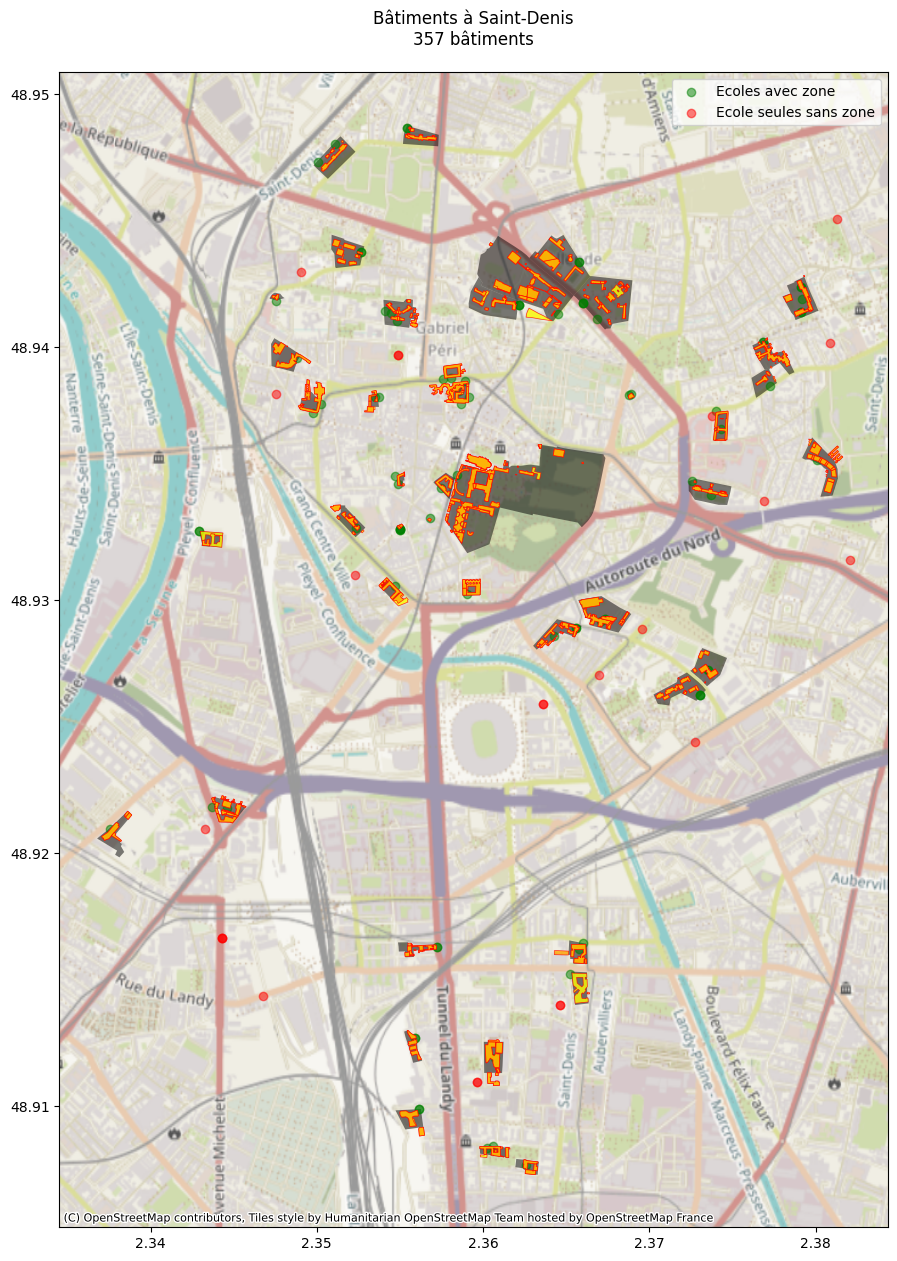
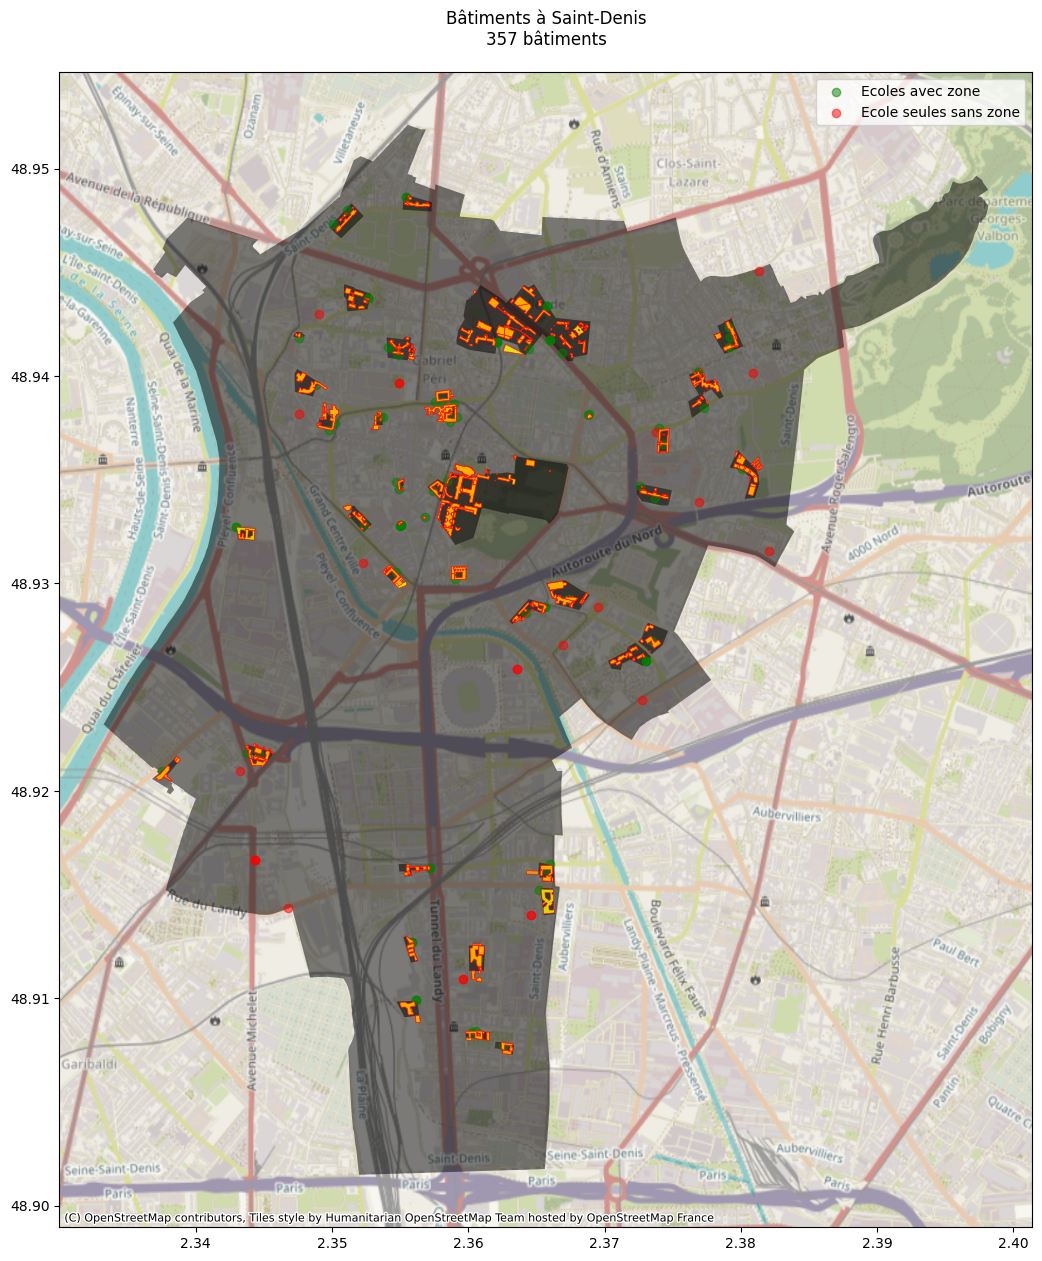
Cleanup notebooks

diff --git a/algorithme/notebooks/exports/verif_haut_niveau.md b/algorithme/notebooks/exports/verif_haut_niveau.md
@@ -23,8 +23,8 @@ src = DATA_FOLDER / "saint_denis_reference_data.gpkg"
 layers = fiona.listlayers(src)
 
 for layer in layers:
-    gdf = gpd.read_file(src, layer=layer)
-    print(f"* Couche: {layer} avec {len(gdf)} éléments.")
+    gdf_sd = gpd.read_file(src, layer=layer)
+    print(f"* Couche: {layer} avec {len(gdf_sd)} éléments.")
 ```
 
     * Couche: annuaire_education avec 88 éléments.
@@ -45,12 +45,14 @@ ecoles = gpd.read_file(src, layer="annuaire_education")
 ecoles_seules = gpd.read_file(src, layer="annuaire_education_sans_zone") 
 potentiel = gpd.read_file(src, layer="potentielsolaire_toitures")
 batiments_ecoles = gpd.read_file(src, layer="bdtopo_batiment")
+stdenis = gpd.read_file(src, layer="perimetre_st_denis")
 ```
 
 
 ```python
 fig1, ax1 = plt.subplots(figsize=(15, 15))
 zones.plot(ax=ax1, color='black', alpha=0.5, label='Zones')
+stdenis.plot(ax=ax1, color='black', alpha=0.5, label='Zones')
 ecoles.plot(ax=ax1, color='green', alpha=0.5, label='Ecoles avec zone')
 ecoles_seules.plot(ax=ax1, color='red', alpha=0.5, label='Ecole seules sans zone')
 batiments_ecoles.plot(ax=ax1, facecolor='yellow', edgecolor='red', linewidth=0.5, alpha=0.8, label='Saint-Denis')
@@ -61,7 +63,7 @@ ax1.legend()
 plt.show()
 ```
 
-    /tmp/ipykernel_287957/4027241553.py:9: UserWarning: Legend does not support handles for PatchCollection instances.
+    /tmp/ipykernel_301604/64737190.py:10: UserWarning: Legend does not support handles for PatchCollection instances.
     See: https://matplotlib.org/stable/tutorials/intermediate/legend_guide.html#implementing-a-custom-legend-handler
       ax1.legend()
 
@@ -445,7 +447,7 @@ batiments_calcules.groupby('forme')
 
 
 
-    <pandas.core.groupby.generic.DataFrameGroupBy object at 0x7726ef6b2ce0>
+    <pandas.core.groupby.generic.DataFrameGroupBy object at 0x7fe1158660b0>
 
 
 
@@ -495,5 +497,173 @@ plt.show()
 
     
 ![png](verif_haut_niveau_files/verif_haut_niveau_16_0.png)
+    
+
+
+# Ajout de la layer potentiel solaire 
+
+PV_Sol_Polygon.gpkg
+* Couche: PV_Sol avec 2016422 éléments.
+* Couche: layer_styles avec 1 éléments.
+
+
+```python
+mask_stdenis = stdenis.to_crs(2154)
+```
+
+
+```python
+src = DATA_FOLDER / "ENR_1-0_POT-SOL-SOL_GPKG_LAMB93_FXX_2024-04-01/1_DONNEES_LIVRAISON/PV_Sol_Polygon.gpkg"
+layers = fiona.listlayers(src)
+
+```
+
+
+```python
+enrpot = gpd.read_file(src, layer="PV_Sol", mask = mask_stdenis)
+enrpot
+```
+
+    /home/kelu/projets/13_potentiel_solaire/algorithme/.venv/lib/python3.10/site-packages/pyogrio/core.py:279: RuntimeWarning: Field format 'character varying(256)' not supported
+      return ogr_read_info(
+    /home/kelu/projets/13_potentiel_solaire/algorithme/.venv/lib/python3.10/site-packages/pyogrio/core.py:279: RuntimeWarning: Field format 'character varying(30)' not supported
+      return ogr_read_info(
+    /home/kelu/projets/13_potentiel_solaire/algorithme/.venv/lib/python3.10/site-packages/pyogrio/core.py:279: RuntimeWarning: Field format 'character varying' not supported
+      return ogr_read_info(
+    /home/kelu/projets/13_potentiel_solaire/algorithme/.venv/lib/python3.10/site-packages/pyogrio/core.py:279: RuntimeWarning: Field format 'timestamp with time zone' not supported
+      return ogr_read_info(
+    /home/kelu/projets/13_potentiel_solaire/algorithme/.venv/lib/python3.10/site-packages/geopandas/io/file.py:497: UserWarning: More than one layer found in 'PV_Sol_Polygon.gpkg': 'PV_Sol' (default), 'layer_styles'. Specify layer parameter to avoid this warning.
+      crs = pyogrio.read_info(path_or_bytes).get("crs")
+
+
+
+
+
+<div>
+<style scoped>
+    .dataframe tbody tr th:only-of-type {
+        vertical-align: middle;
+    }
+
+    .dataframe tbody tr th {
+        vertical-align: top;
+    }
+
+    .dataframe thead th {
+        text-align: right;
+    }
+</style>
+<table border="1" class="dataframe">
+  <thead>
+    <tr style="text-align: right;">
+      <th></th>
+      <th>objectid</th>
+      <th>classe</th>
+      <th>region</th>
+      <th>geometry</th>
+    </tr>
+  </thead>
+  <tbody>
+    <tr>
+      <th>0</th>
+      <td>1356053</td>
+      <td>Réseaux routiers et ferroviaires</td>
+      <td>Île-de-France</td>
+      <td>MULTIPOLYGON (((656436.5 6894531, 656438.799 6...</td>
+    </tr>
+    <tr>
+      <th>1</th>
+      <td>871998</td>
+      <td>Inadapté sauf exception</td>
+      <td>Île-de-France</td>
+      <td>MULTIPOLYGON (((654025.136 6867560.505, 654013...</td>
+    </tr>
+    <tr>
+      <th>2</th>
+      <td>872121</td>
+      <td>Inadapté sauf exception</td>
+      <td>Île-de-France</td>
+      <td>MULTIPOLYGON (((652984.728 6867576.176, 652985...</td>
+    </tr>
+    <tr>
+      <th>3</th>
+      <td>871992</td>
+      <td>Inadapté sauf exception</td>
+      <td>Île-de-France</td>
+      <td>MULTIPOLYGON (((653831.991 6867843.593, 653815...</td>
+    </tr>
+    <tr>
+      <th>4</th>
+      <td>872122</td>
+      <td>Inadapté sauf exception</td>
+      <td>Île-de-France</td>
+      <td>MULTIPOLYGON (((653407.343 6867644.803, 653399...</td>
+    </tr>
+    <tr>
+      <th>...</th>
+      <td>...</td>
+      <td>...</td>
+      <td>...</td>
+      <td>...</td>
+    </tr>
+    <tr>
+      <th>206</th>
+      <td>872075</td>
+      <td>Inadapté sauf exception</td>
+      <td>Île-de-France</td>
+      <td>MULTIPOLYGON (((655113.813 6871546.614, 655116...</td>
+    </tr>
+    <tr>
+      <th>207</th>
+      <td>888472</td>
+      <td>Inadapté sauf exception</td>
+      <td>Île-de-France</td>
+      <td>MULTIPOLYGON (((653591.409 6871971.731, 653583...</td>
+    </tr>
+    <tr>
+      <th>208</th>
+      <td>872037</td>
+      <td>Inadapté sauf exception</td>
+      <td>Île-de-France</td>
+      <td>MULTIPOLYGON (((655070.762 6870563.567, 655066...</td>
+    </tr>
+    <tr>
+      <th>209</th>
+      <td>872038</td>
+      <td>Inadapté sauf exception</td>
+      <td>Île-de-France</td>
+      <td>MULTIPOLYGON (((654812.921 6870547.068, 654722...</td>
+    </tr>
+    <tr>
+      <th>210</th>
+      <td>888498</td>
+      <td>Inadapté sauf exception</td>
+      <td>Île-de-France</td>
+      <td>MULTIPOLYGON (((655921.662 6872724.47, 656039....</td>
+    </tr>
+  </tbody>
+</table>
+<p>211 rows × 4 columns</p>
+</div>
+
+
+
+# Representing the area for StDenis
+
+
+```python
+enrpot.clip(mask_stdenis).plot()
+```
+
+
+
+
+    <Axes: >
+
+
+
+
+    
+![png](verif_haut_niveau_files/verif_haut_niveau_23_1.png)
     
 
